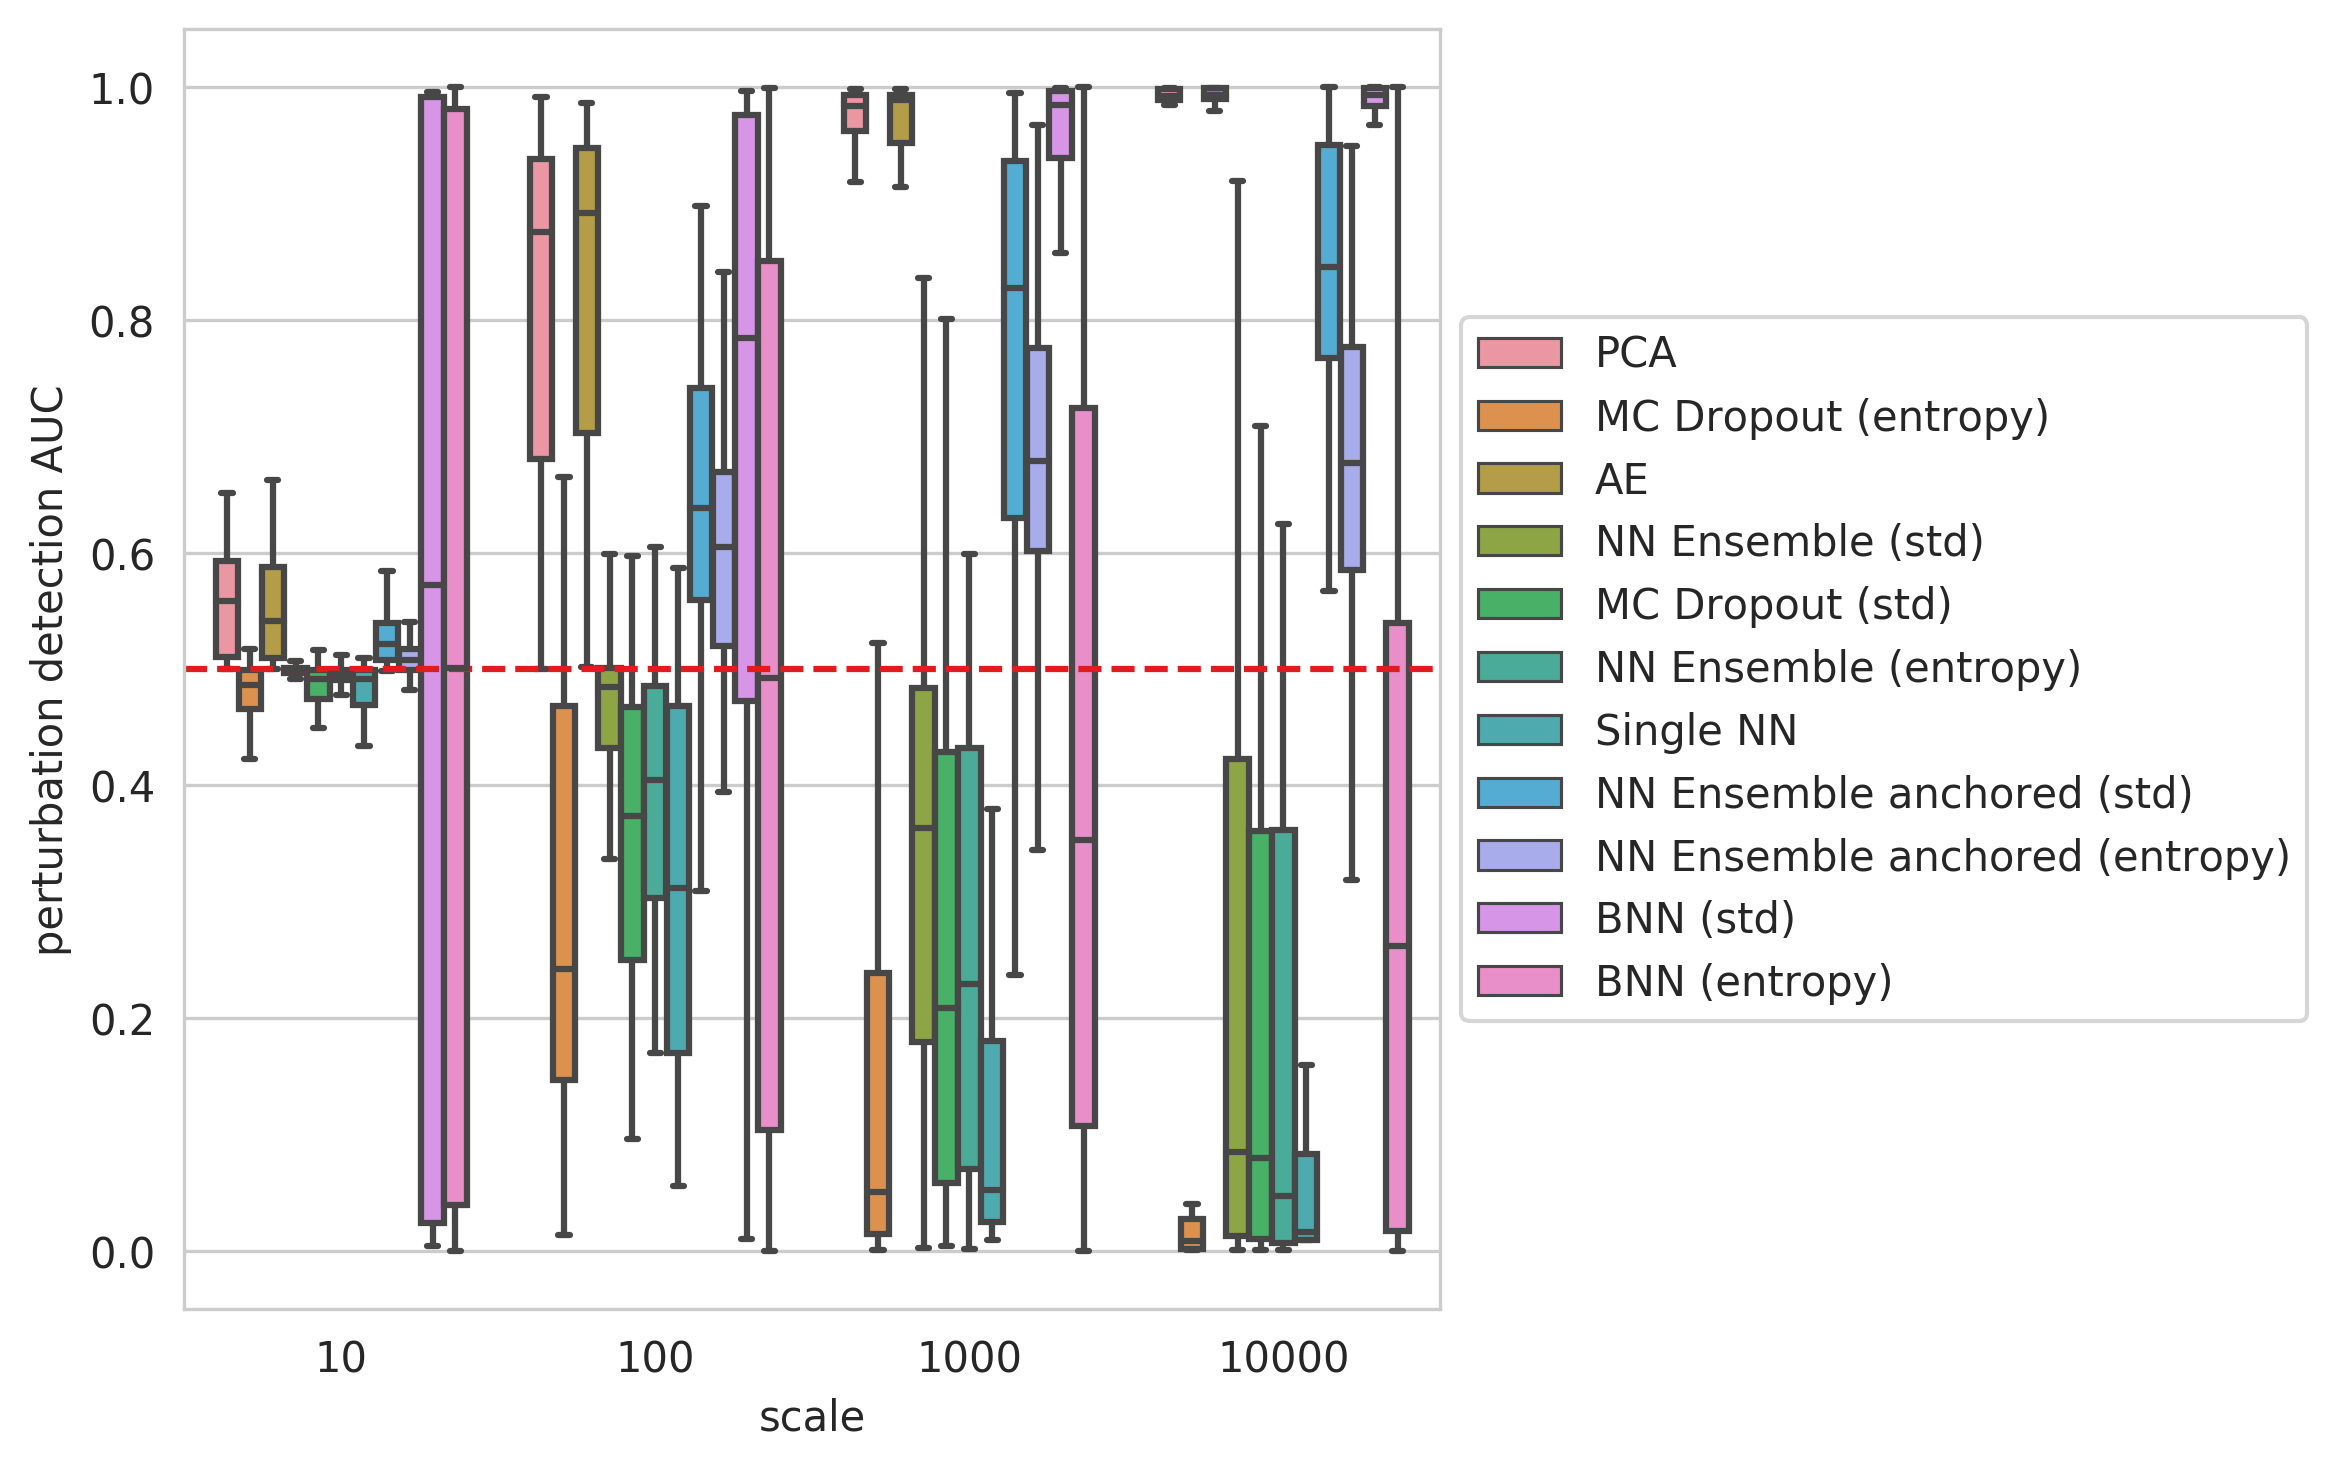
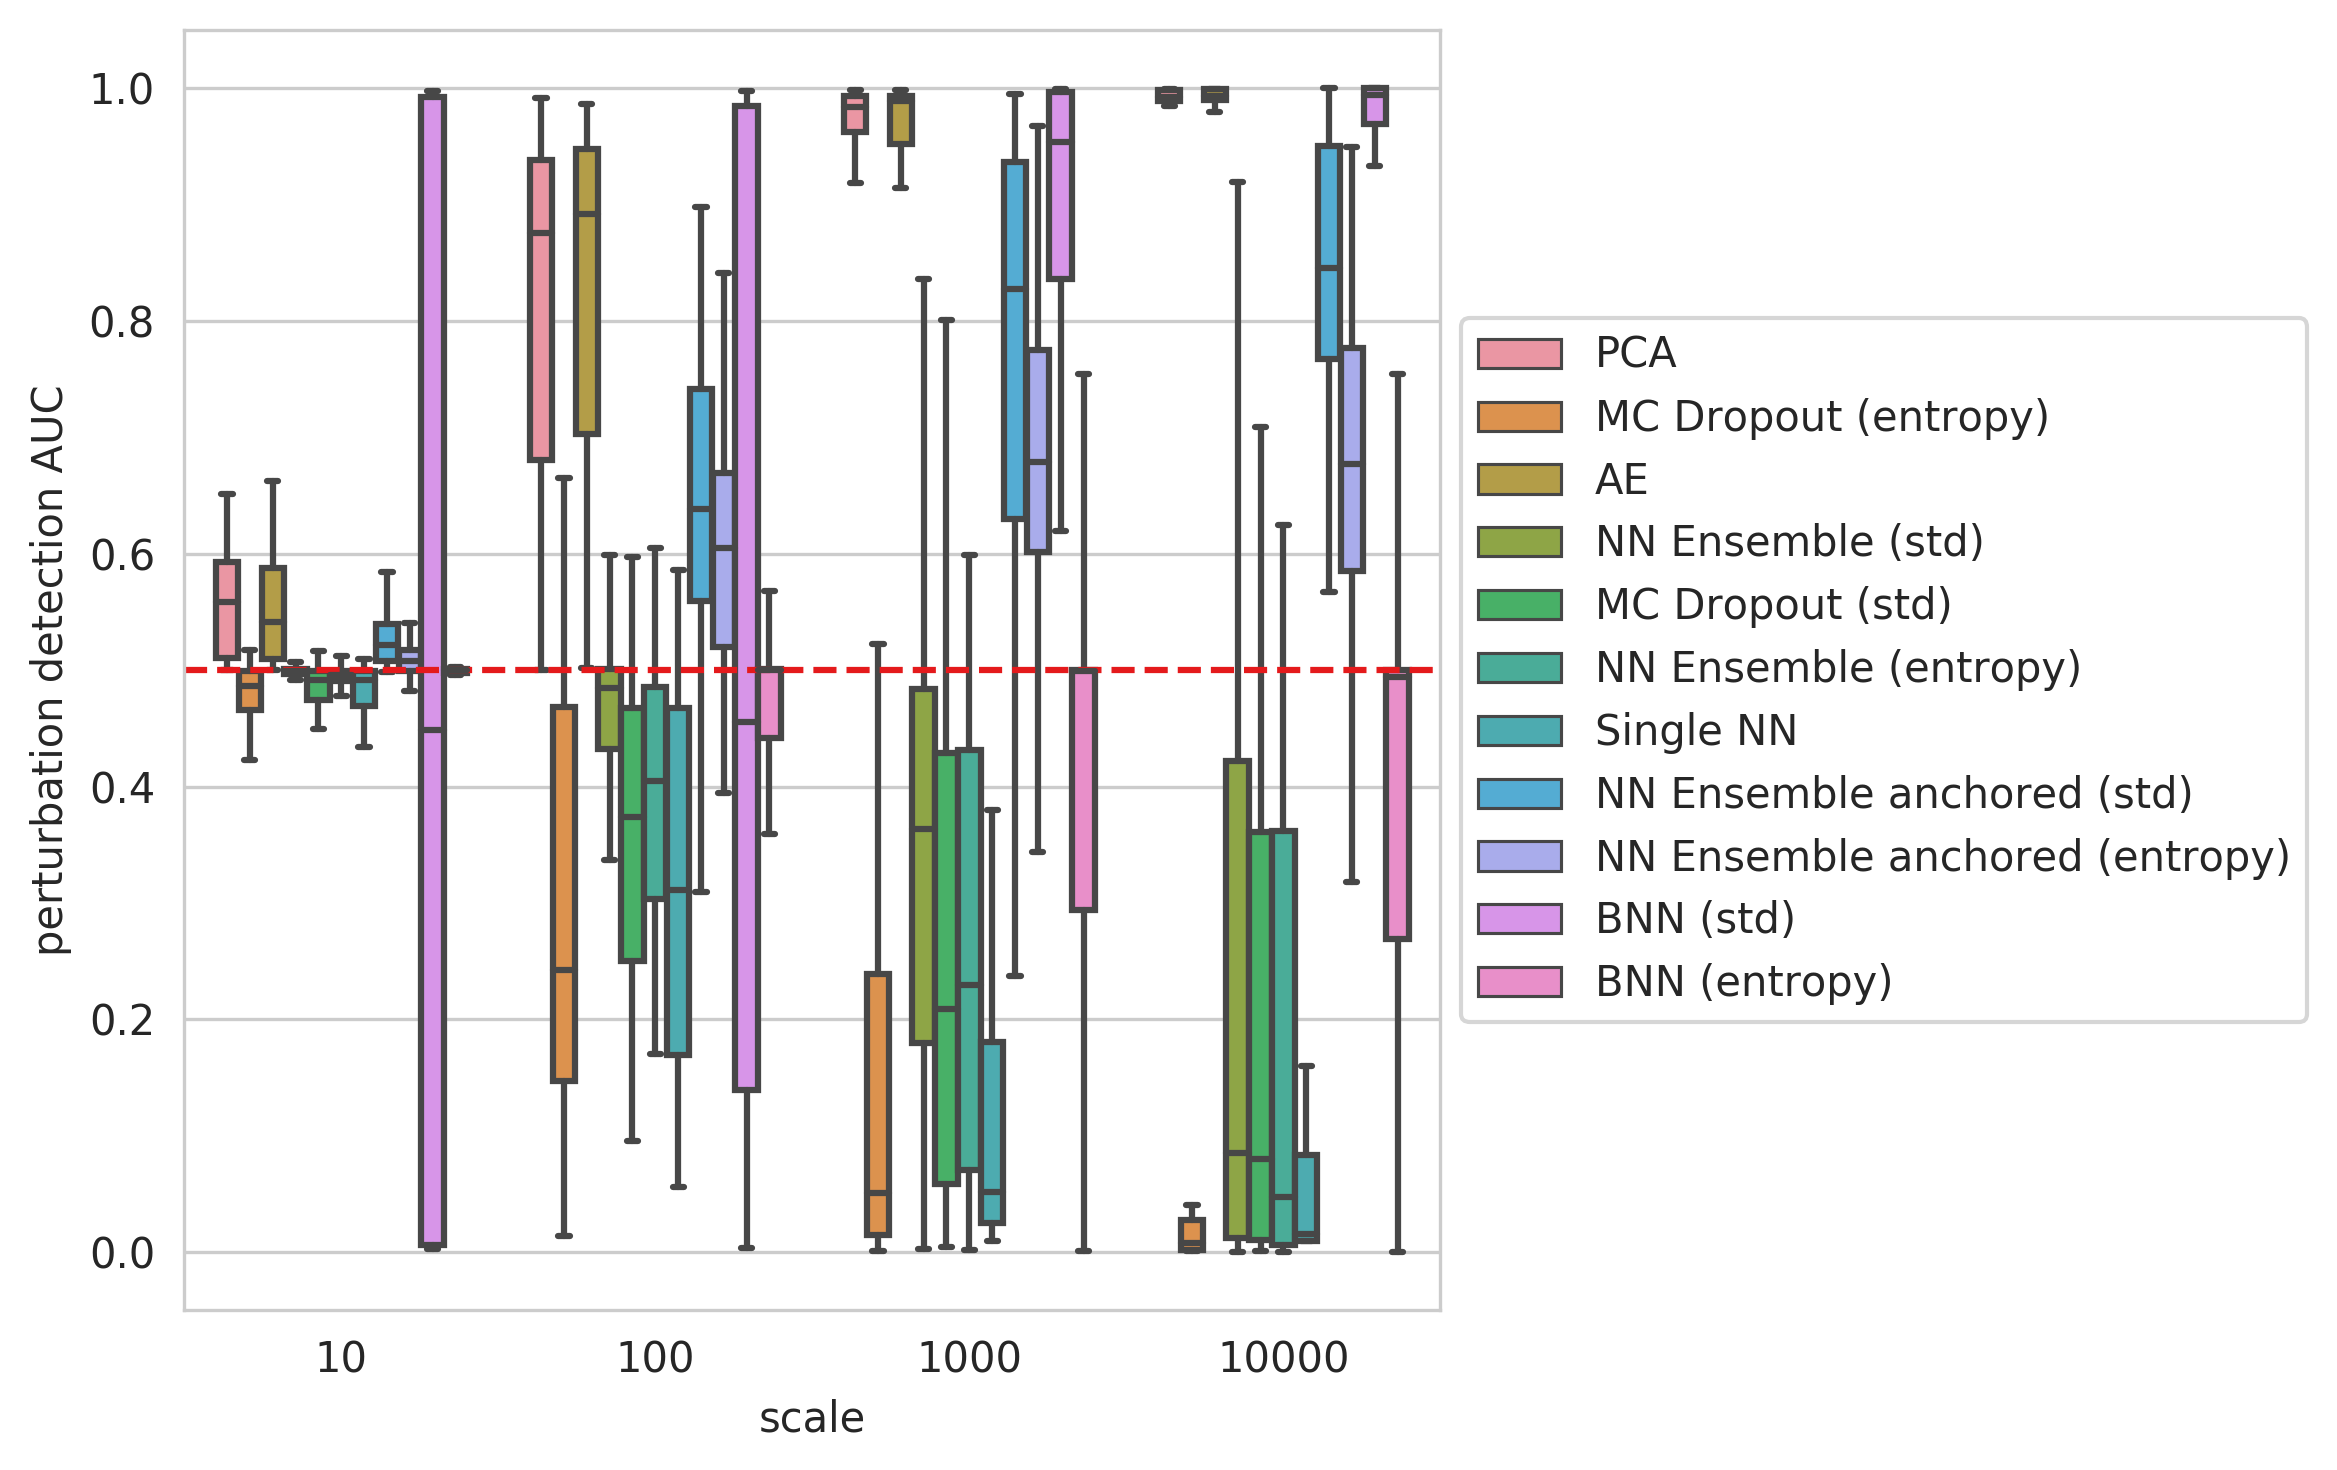
:construction: Best (but bad) hyperparameters found for BNNs so far

diff --git a/uncertainty_estimation/models/mlp.py b/uncertainty_estimation/models/mlp.py
@@ -69,7 +69,12 @@ class BayesianMLPModule(MLPModule):
             dropout_rate=dropout_rate,
             output_size=output_size,
             layer_class=BayesianLinear,
-            layer_kwargs={"posterior_rho_init": -4.5, "prior_pi": 0.5},
+            # TODO: Make this hyperparams in models_to_use.py
+            layer_kwargs={
+                "posterior_rho_init": -4.5,
+                "prior_pi": 0.8,
+                "prior_sigma_1": 0.7,
+            },
         )
 
 
@@ -270,7 +275,7 @@ class MLP:
 
             if early_stopping:
                 val_loss = self.validate(X_val, y_val)
-                print("Val", val_loss)
+                # print("Val", val_loss)
                 if val_loss > prev_val_loss:
                     n_no_improvement += 1
                 else:
@@ -401,7 +406,7 @@ class BayesianMLP(MLP):
 
             if early_stopping:
                 val_loss = self.validate(X_val, y_val)
-                print("BNN val", val_loss)
+                # print("BNN val", val_loss)
                 if val_loss >= prev_val_loss:
                     n_no_improvement += 1
                 else:
